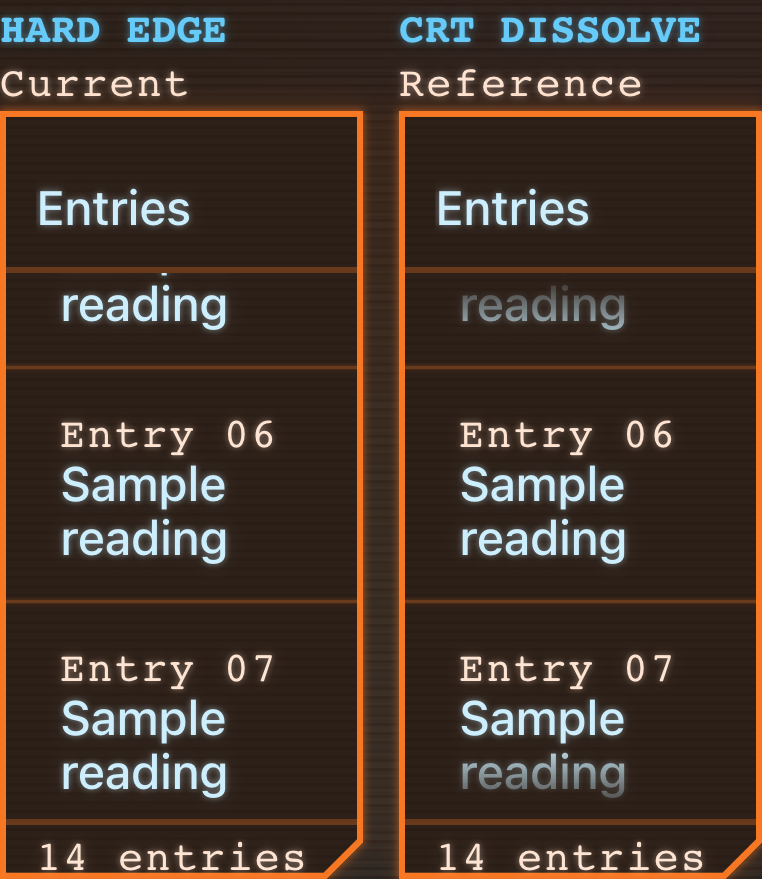
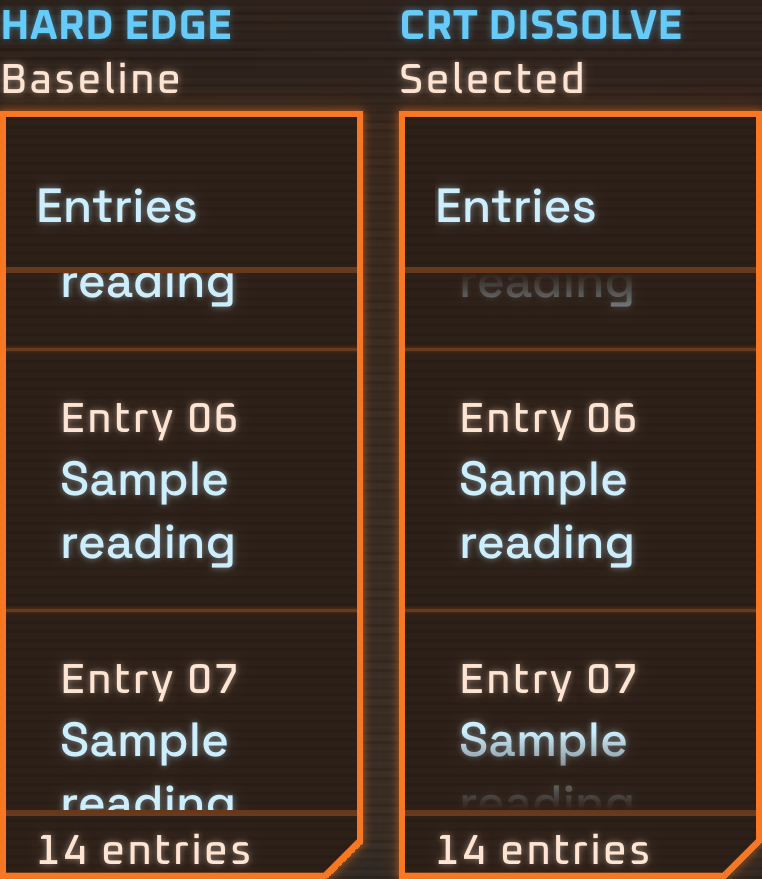
Make the scroll-glow preview visible with compiled time units

diff --git a/src/dev/gallery-motion.tsx b/src/dev/gallery-motion.tsx
@@ -1,5 +1,5 @@
 /** Current components and shared motion; experiments stay inside this review surface. */
-import { useEffect, useRef, useState, type CSSProperties } from 'react'
+import { useEffect, useLayoutEffect, useRef, useState, type CSSProperties } from 'react'
 
 import { Button, ChamferedFrame, Chip, Clock, IntensitySlider, Progress, ScrollRegion, TimerDisplay } from '../design-system/index'
 import { Card } from '../ui/card'
@@ -8,6 +8,7 @@ import { ListFrame, ListRow } from '../ui/composition'
 import { Heading, HeadingSection } from '../ui/Heading'
 import { interruptMotion, prefersReducedMotion, useArrivalStagger, useInterfaceLoop } from '../ui/motion'
 import { MOTION_PATTERNS, type MotionPattern } from './gallery-motion-patterns'
+import { galleryScrollSettleTime } from './gallery-scroll-settle-time'
 
 import './gallery-motion.css'
 
@@ -184,6 +185,13 @@ function MotionRules() {
 function ScrollComparison() {
   const pair = useRef<HTMLDivElement>(null)
   const [position, setPosition] = useState(0)
+  const [holdGlow, setHoldGlow] = useState(false)
+  useLayoutEffect(() => {
+    const element = pair.current
+    if (!element) return
+    const time = galleryScrollSettleTime(getComputedStyle(element).getPropertyValue('--dur-streak-settle'))
+    if (time) element.style.setProperty('--dur-streak-settle', time)
+  }, [])
   function scrollBoth(value: number) {
     setPosition(value)
     pair.current?.querySelectorAll<HTMLElement>('.clr-scroll-region__scroller').forEach(scroller => {
@@ -197,12 +205,14 @@ function ScrollComparison() {
         <p>Both examples use the real ScrollRegion and identical content. The first cuts text off sharply. The second adds the earlier request’s edge fade. Both have the same brief edge glow while scrolling.</p>
         <IntensitySlider label="Scroll both samples (%)" aria-label="Scroll both samples (%)" min={0} max={100} value={position} onChange={scrollBoth} style={{ minWidth: 0 }} />
         <p className="clr-text-data-xs">Move the slider to compare matching positions, or scroll each panel independently.</p>
+        <Button variant="secondary" aria-pressed={holdGlow} onClick={() => setHoldGlow(value => !value)}>Hold glow for inspection</Button>
+        <p className="clr-text-data-xs">Hold keeps the same edge glow visible for review. With Hold off, it lights during scrolling and settles afterward.</p>
         <div ref={pair} className="clr-gallery-motion__scroll-pair" style={{ '--gallery-dissolve-depth': String(DISSOLVE_REFERENCE_PX) + 'px' } as CSSProperties}>
           {(['hard', 'dissolve'] as const).map(kind => <HeadingSection key={kind}>
             <Heading className="clr-gallery-motion__sample-title">{kind === 'hard' ? 'Hard edge' : 'CRT dissolve'}</Heading>
-            <p className="clr-text-data-xs">{kind === 'hard' ? 'Current' : 'Reference'}</p>
+            <p className="clr-text-data-xs">{kind === 'hard' ? 'Baseline' : 'Selected'}</p>
             <ChamferedFrame role="structure" cornerSize="md" trace={false} className="clr-gallery-motion__scroll-stage" style={{ paddingBottom: 0 }}>
-              <ScrollRegion title="Entries" foot={<span className="clr-text-data-xs">14 entries</span>} scrollerProps={{ role: 'region', 'aria-label': kind === 'hard' ? 'Hard edge sample entries' : 'CRT dissolve sample entries', tabIndex: 0, className: kind === 'dissolve' ? 'clr-gallery-motion__dissolve' : undefined }} data-gallery-scroll={kind}>
+              <ScrollRegion title="Entries" foot={<span className="clr-text-data-xs">14 entries</span>} scrollerProps={{ role: 'region', 'aria-label': kind === 'hard' ? 'Hard edge sample entries' : 'CRT dissolve sample entries', tabIndex: 0, className: kind === 'dissolve' ? 'clr-gallery-motion__dissolve' : undefined }} data-gallery-scroll={kind} {...(holdGlow ? { 'data-scrolling': '' } : {})}>
                 <div className="clr-gallery-motion__scroll-body"><ListFrame>
                   {SCROLL_ROWS.map(index => <ListRow key={index}><span className="clr-text-data-xs">Entry {String(index).padStart(2, '0')}</span><br />Sample reading</ListRow>)}
                 </ListFrame></div>
@@ -210,8 +220,8 @@ function ScrollComparison() {
             </ChamferedFrame>
           </HeadingSection>)}
         </div>
-        <p>The 26 CSS pixel dissolve is a gallery-only comparison, not current app behavior or an approved rollout. The earlier request and shipped contract disagree; choose the treatment visually before integration.</p>
-        <p>Home currently uses the hard edge. The glow appears while scrolling and settles shortly after you stop.</p>
+        <p>CRT dissolve with visible glow is the selected direction. This gallery-only preview corrects the glow timing for review; the final appearance and app integration remain open.</p>
+        <p>Home currently uses the hard-edge layout.</p>
       </Card>
     </HeadingSection>
   )

diff --git a/e2e/gallery-motion.spec.ts b/e2e/gallery-motion.spec.ts
@@ -59,6 +59,33 @@ test('motion scroll comparison: both samples work and fit four skins on narrow p
   await expect(page.getByRole('heading', { level: 2, name: 'Motion and behavior' })).toBeVisible()
 })
 
+test('motion scroll glow: survives compiled time units, can be held, and respects reduced motion', async ({ page, visit, checkA11y }, testInfo) => {
+  await page.emulateMedia({ reducedMotion: 'no-preference' })
+  await visit('/gallery/motion')
+  const pair = page.locator('.clr-gallery-motion__scroll-pair')
+  await expect(pair).toHaveCSS('--dur-streak-settle', '420ms')
+  const hard = page.locator('[data-gallery-scroll="hard"]')
+  const top = hard.locator(':scope > .clr-scroll-region__streak').first()
+  await page.getByRole('slider', { name: 'Scroll both samples (%)' }).press('PageUp')
+  await expect(hard).toHaveAttribute('data-scrolling', '')
+  await expect(top).toHaveCSS('opacity', '0.7')
+  expect(await top.evaluate(element => getComputedStyle(element).boxShadow)).not.toBe('none')
+  await expect(hard).not.toHaveAttribute('data-scrolling')
+  for (let index = 0; index < 3; index += 1) await page.getByRole('slider', { name: 'Scroll both samples (%)' }).press('PageUp')
+  const hold = page.getByRole('button', { name: 'Hold glow for inspection' })
+  await hold.click()
+  await expect(hold).toHaveAttribute('aria-pressed', 'true')
+  await expect(top).toHaveCSS('opacity', '0.7')
+  await testInfo.attach('scroll-glow-held.png', { body: await pair.screenshot(), contentType: 'image/png' })
+  await hold.click()
+  await expect(top).toHaveCSS('opacity', '0')
+  await page.emulateMedia({ reducedMotion: 'reduce' })
+  await hold.click()
+  await expect(top).toHaveCSS('opacity', '0.5')
+  await expect(top).toHaveCSS('box-shadow', 'none')
+  await checkA11y()
+})
+
 test('motion rules: interrupt state, coordinate loops and preserve reduced-motion content', async ({ page, visit, checkA11y }) => {
   await page.emulateMedia({ reducedMotion: 'no-preference' })
   await visit('/gallery/motion')

diff --git a/src/dev/gallery-motion.test.tsx b/src/dev/gallery-motion.test.tsx
@@ -7,6 +7,7 @@ import { describe, expect, it } from 'vitest'
 
 import { GalleryMotion } from './gallery-motion'
 import { MOTION_PATTERNS } from './gallery-motion-patterns'
+import { galleryScrollSettleTime } from './gallery-scroll-settle-time'
 
 describe('restored Motion Lab', () => {
   it('accounts for every original effect using the shipped motion vocabulary', () => {
@@ -37,7 +38,16 @@ describe('restored Motion Lab', () => {
     expect(samples).toHaveLength(2)
     expect(within(samples[0] as HTMLElement).getByText('Entry 01')).toBeInTheDocument()
     expect(within(samples[1] as HTMLElement).getByText('Entry 01')).toBeInTheDocument()
-    expect(screen.getByText(/gallery-only comparison/)).toBeInTheDocument()
+    expect(screen.getByText(/gallery-only preview/)).toBeInTheDocument()
     expect(screen.getByRole('slider', { name: 'Scroll both samples (%)' })).toBeInTheDocument()
+  })
+})
+
+describe('production scroll timing compatibility', () => {
+  it.each([['420ms', '420ms'], ['.42s', '420ms'], [' 0.42s ', '420ms'], ['0ms', '0ms']])('preserves %s as milliseconds', (css, expected) => {
+    expect(galleryScrollSettleTime(css)).toBe(expected)
+  })
+  it.each(['', 'invalid', '-1s'])('leaves an invalid token to the component fallback: %s', value => {
+    expect(galleryScrollSettleTime(value)).toBeUndefined()
   })
 })

diff --git a/src/dev/gallery-scroll-settle-time.ts b/src/dev/gallery-scroll-settle-time.ts
@@ -1,0 +1,9 @@
+/** Preview compatibility for ScrollRegion's millisecond-only reader (#600).
+ * Preserve the shared token's value when production CSS serializes it in seconds.
+ * Remove this adapter when a corrected versioned foundation is imported.
+ */
+export function galleryScrollSettleTime(value: string): string | undefined {
+  const time = value.trim().match(/^(\d*\.?\d+)(ms|s)$/)
+  if (!time) return undefined
+  return String(Number(time[1]) * (time[2] === 's' ? 1000 : 1)) + 'ms'
+}

diff --git a/docs/design/library/evidence/motion/README.md b/docs/design/library/evidence/motion/README.md
@@ -18,13 +18,30 @@ These are different source stages, not two names for the same effect.
 
 The paired panels use the actual ScrollRegion, identical content and a linked
 position control. Only the reference panel has a scoped 26 CSS pixel mask.
-The pinned layers and shared streaks remain outside that mask. This comparison
-does not choose a new app behavior. A chosen foundation change needs a separate
-versioned implementation and affected-screen verification.
+The pinned layers and shared streaks remain outside that mask. Eric selected
+CRT dissolve with visible glow. Final appearance review and a versioned
+implementation with affected-screen verification remain open.
+
+His deployed-preview review exposed issue600: compiled CSS serializes 420ms as
+`.42s`, but pinned ScrollRegion parses that number as milliseconds. The streak
+then settles too soon to become visible. The earlier Home evidence below used
+development CSS and did not verify this compiled-unit case. Both device and
+local reduced motion were off in Eric's actual tab.
+
+The gallery now normalizes that same token to milliseconds on the comparison
+stage only; it introduces no new timing or glow style. Hold for inspection
+forces the existing shared CSS scroll state so its glow can be examined at rest.
+Real scroll activation/settling is tested separately against production output.
+The immutable import is retained. Remove this compatibility adapter when the
+canonical versioned foundation correction in issue600 is imported; this does
+not establish that Home's production timing is fixed.
 
 - `scroll-comparison-320.png` and `scroll-comparison-390.png`: default Clear skin,
   matching mid-scroll positions, from `e2e/gallery-motion.spec.ts`. These show
   the cutoff/fade; the live preview demonstrates the brief glow.
+- `scroll-glow-held.png`: production-built actual shared edge CSS, held on for
+  inspection. The browser test also verifies real scroll activation reaches
+  visible opacity before settling, and reduced motion removes the shadow.
 - `home/`: genuine synthetic Home captures from the existing
   `ui-polish-b05-scroll-boundaries.spec.ts` case, on clean source `c141aed`.
   Each JSON retains its actual viewport/source/pixel record. The test measured

diff --git a/docs/journal/2026-10-30.md b/docs/journal/2026-10-30.md
@@ -434,3 +434,28 @@ The unchanged audit consumer now passes38/38. Full local Vitest passes5873/5873 
   restarted that server and reran. Typecheck/design lint pass; publishing these
   corrections and the ordinary agent guidance through the same PR. The scroll
   design choice and workout-prompt pilot scope remain owner inputs.
+
+### Library598 — visible glow preview after production unit defect
+
+- Eric selected CRT dissolve and reported neither comparison showed the missing
+  glow. In his actual open preview, both device and local reduced motion were
+  false and the computed settle token was .42s. Pinned ScrollRegion parseFloat
+  treats that as0.42milliseconds. Source420ms had been minified to seconds;
+  the previous development Home proof did not verify that production case.
+  Created issue600 for the canonical shared-owner/versioned correction and
+  recorded the selection/finding on598. Do not mark that source fix complete.
+- Eric requested an updated preview with visible glow. Added a gallery-only
+  compatibility adapter that serializes the same computed token in milliseconds
+  on the comparison stage. No new timing value or glow style is introduced.
+  The immutable source is retained; remove this adapter when600 is integrated.
+  This preview is not a production Home repair.
+- Added Hold glow for inspection, a review fixture that holds the actual shared
+  ScrollRegion CSS scrolling state. Natural scrolling still uses the component's
+  timer. Labels now record Baseline/Selected and the outstanding appearance
+  review. Device/local reduced-motion behavior remains in effect while held.
+- Build/typecheck, design lint and generated index pass. All77 targeted tests
+  pass, including ms/seconds equivalence. All8 built public/mobile browser cases
+  pass, with a new check that natural scrolling reaches visible0.7 opacity before
+  settling; Hold remains visible and reduced motion shows0.5 without shadow.
+  Captured/inspected the real compiled glow; a full local suite is also running.
+  Existing canonical source/versioned repair remains tracked by600.

diff --git a/docs/design/library/PLAN.md b/docs/design/library/PLAN.md
@@ -116,9 +116,11 @@ Delivery 2 is implemented in [PR 595](https://github.com/theycallme-eric/clear/p
 
 Requested library refinement: [PR 599](https://github.com/theycallme-eric/clear/pull/599)
 restores the package's motion lab/use cases at `/gallery/motion` and shows the
-current hard-edge scroll treatment beside the earlier dissolve reference.
-This supports visual review; the scroll choice and any versioned foundation
-integration remain open. It does not replace delivery 3's workout-prompt pilot.
+current hard-edge scroll treatment beside the dissolve direction Eric selected.
+Visible glow still needs owner review after correcting a production CSS-time
+unit bug tracked in issue600. The gallery normalizes the existing token for
+preview and offers Hold for inspection; canonical foundation correction and
+app integration remain separate. This does not replace delivery 3's pilot.
 
 Read the repository's project instructions and the short library README before UI work. Search the existing registry and src/ui before creating presentation. Use the same components, style authority and real state owners in gallery examples; supply deterministic data/controllers without live writes.
 

diff --git a/docs/design/library/README.md b/docs/design/library/README.md
@@ -21,8 +21,11 @@ existing visual choice. Material proposed changes receive their own review.
   ordinary visual preview and requirements handoff when motion is involved.
 - The Motion view also compares the actual hard-edge ScrollRegion with an
   explicitly scoped 26 CSS pixel dissolve reference. Both use the same real component
-  and content. The dissolve is a gallery-only proposal, pending visual choice
-  and versioned foundation integration; it is not current Home behavior.
+  and content. Eric selected dissolve with visible glow; its final appearance
+  and versioned foundation integration remain open. A gallery-only adapter
+  preserves the token's milliseconds when compiled CSS uses seconds (#600).
+  Hold glow for inspection shows the existing shared CSS state continuously.
+  This preview correction is not a production Home fix.
 
 - Selected visual inputs awaiting scoped integration live in
   [the Phosphor Echo intake](intake/phosphor-echo/README.md): one shared effect,
